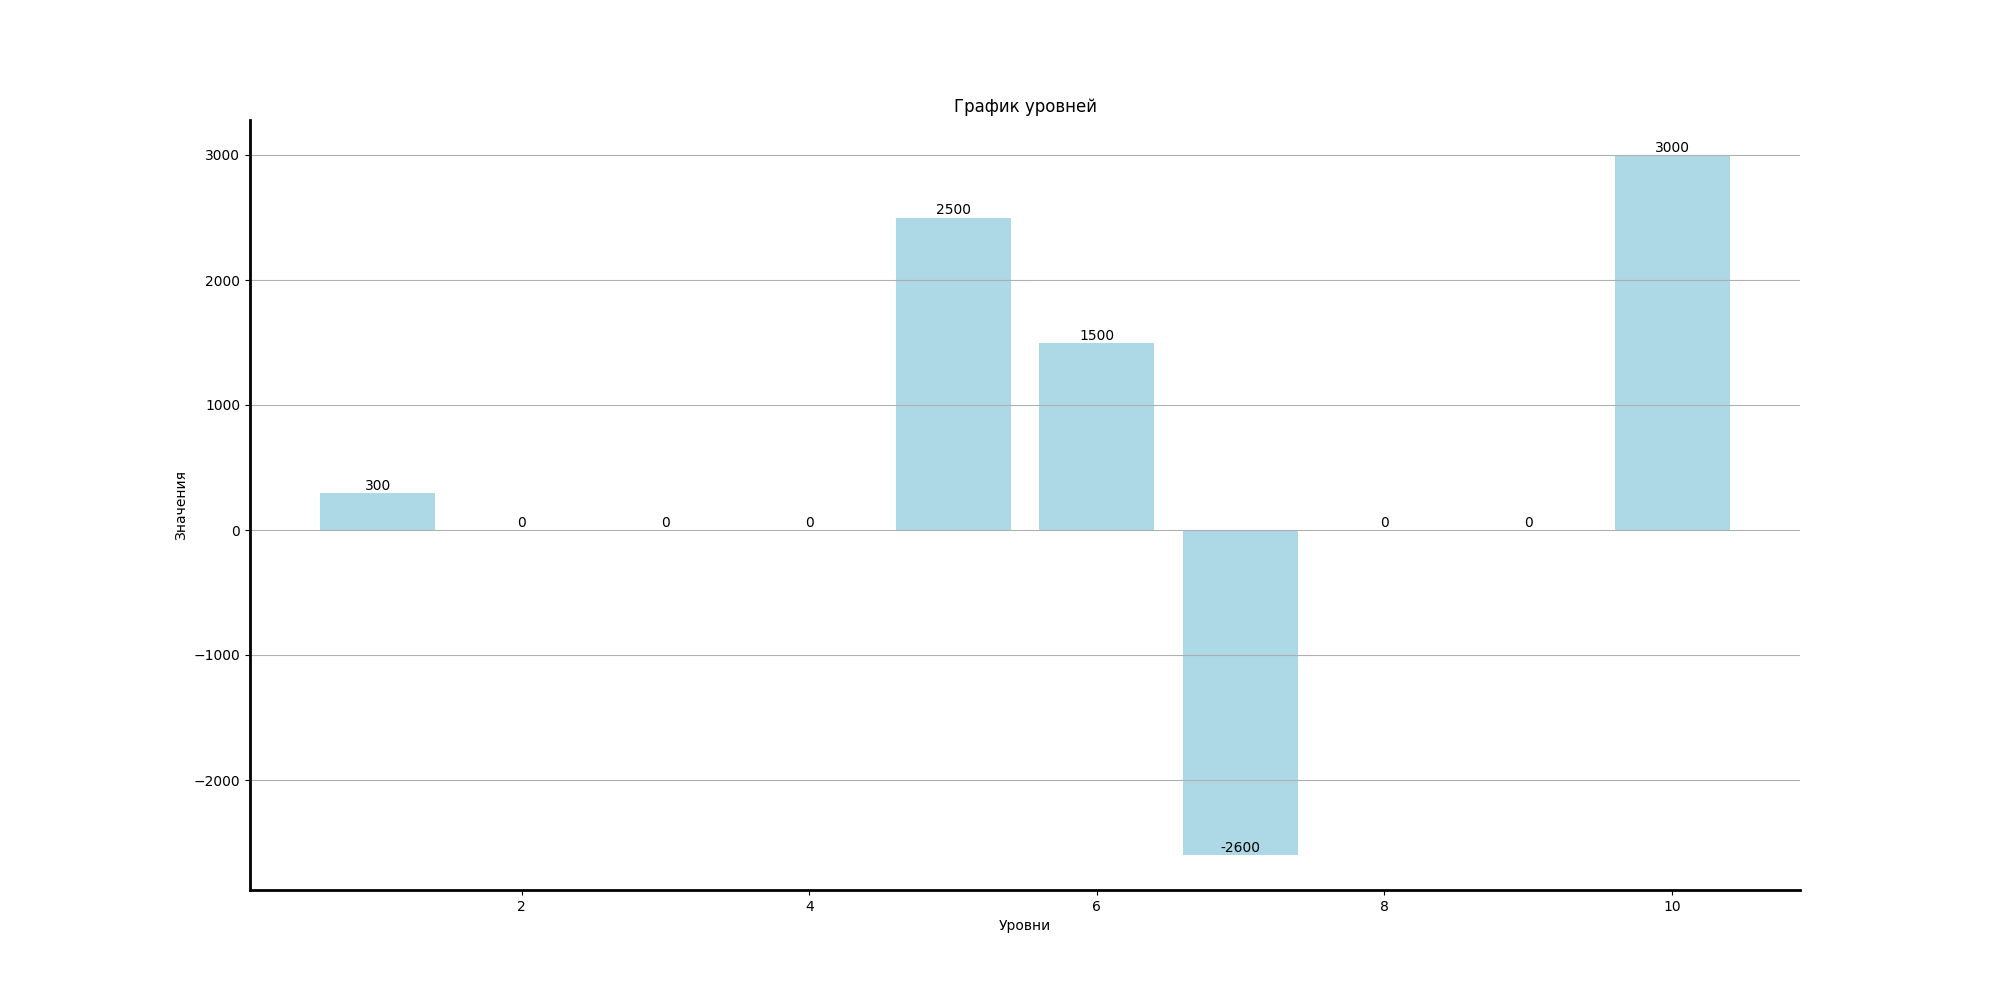
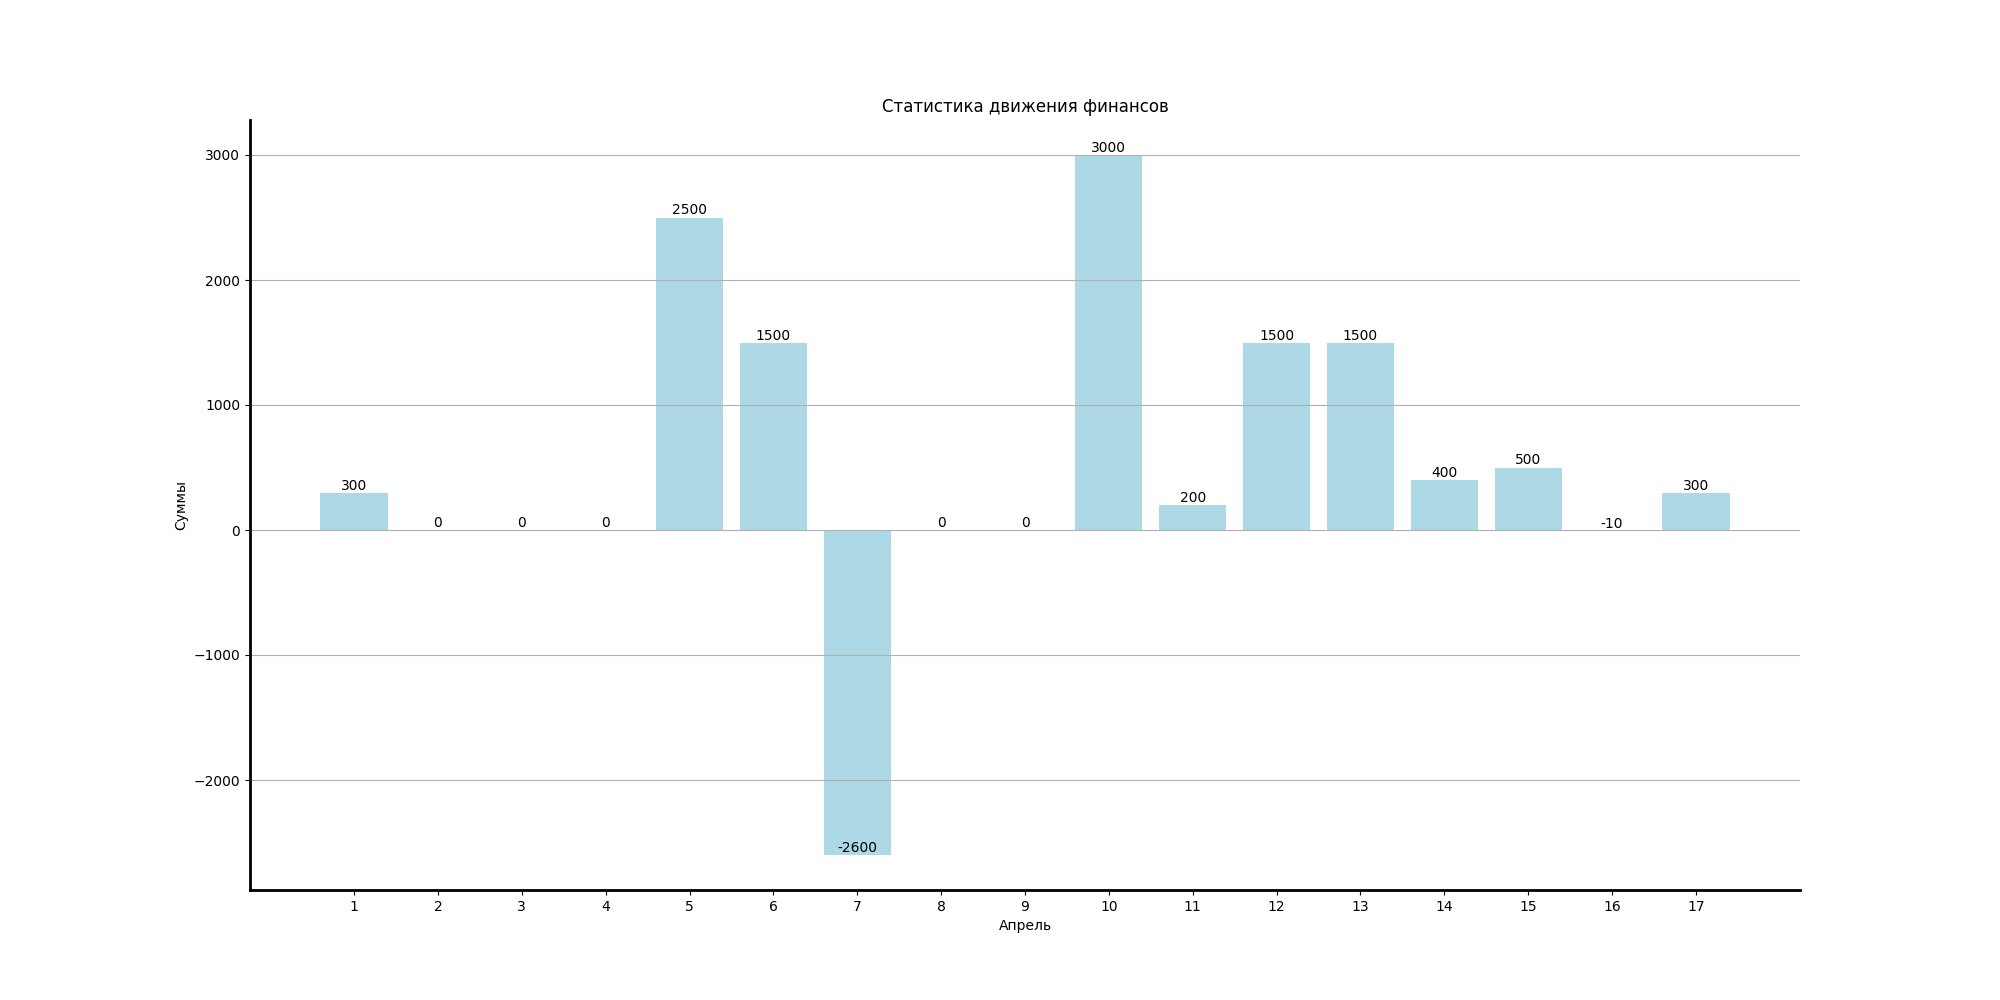
24-april-1

diff --git a/app/bot.py b/app/bot.py
@@ -7,12 +7,12 @@ from functions import is_int_or_float, day_utcnow
 from exchange import get_exchange
 from category import get_category
 from backupdb import backup_db
+from graph import build_graph
 from keys import telegram, is_admin
 import sys
 import os
 import csv
 import asyncio
-import matplotlib.pyplot as plt # Графики
 from io import StringIO, BytesIO
 from pathlib import Path
 from aiogram import Bot, Dispatcher, types, F, Router, html
@@ -1177,87 +1177,22 @@ async def menu_stat(message: types.Message):
 
 
 
-
 # STAT --- month
 @dp.callback_query(lambda c: c.data == 'stat_month')
 async def process_stat_month(callback_query: types.CallbackQuery):
-
-
-    # График кривой 
-    # # Пример данных для графика
-    # x = [1, 2, 3, 4, 5, 6, 7, 8 , 9, 10]
-    # y = [300, 0, 0, 0, 2500, 1500, -2600, 0, 0, 3000]
-
-    # # plt.figure()
-    # plt.figure(num='MyFigure', figsize=(20, 10), dpi=100, facecolor='w', edgecolor='k', frameon=True)
-    # plt.plot(x, y)
-    # plt.title('График дохода')
-    # plt.xlabel('Число месяца') # X
-    # plt.ylabel('Доход в руб.') # Y
-    # plt.grid(True)
-    # plt.savefig('./graph/graph.png')  # Сохранение графика в файл
-    # plt.close()  # Закрытие объекта figure, чтобы освободить память
-
-
-    # График горизонтальными колонами
-    # plt.figure()
-    # plt.barh(x, y, color='green')  # Создание горизонтальной столбчатой диаграммы
-    # plt.title('График уровней')
-    # plt.xlabel('Значения')
-    # plt.ylabel('Уровни')
-    # plt.grid(axis='x')  # Включение сетки по оси X
-    # plt.savefig('levels_horizontal.png')
-    # plt.close()
+    await bot.send_chat_action(callback_query.from_user.id, action='typing')
+    await callback_query.answer() # Подтверждение получения
 
     # График вертикальными колонами
-    x = [1, 2, 3, 4, 5, 6, 7, 8 , 9, 10]
-    y = [300, 0, 0, 0, 2500, 1500, -2600, 0, 0, 3000]
-
-    fig, ax = plt.subplots(figsize=(20, 10), dpi=100) # Создание объектов фигуры и осей
-    bars = ax.bar(x, y, color='lightblue')  # Создание столбчатой диаграммы
-
-    # Выделение осей
-    ax.spines['bottom'].set_color('black')
-    ax.spines['bottom'].set_linewidth(2)
-    ax.spines['left'].set_color('black')
-    ax.spines['left'].set_linewidth(2)
-
-    # Удаление верхней и правой границы
-    ax.spines['top'].set_visible(False)
-    ax.spines['right'].set_visible(False)
+    x = [1, 2, 3, 4, 5, 6, 7, 8 , 9, 10, 11, 12, 13, 14, 15, 16, 17]
+    y = [300, 0, 0, 0, 2500, 1500, -2600, 0, 0, 3000, 200, 1500, 1500, 400, 500, -10, 300]
 
 
-    # Добавление надписей на столбцах
-    for bar in bars:
-        height = bar.get_height()
-        ax.text(
-            bar.get_x() + bar.get_width() / 2,  # X позиция надписи
-            height,  # Y позиция надписи
-            f'{height}',  # Текст надписи
-            ha='center',  # Горизонтальное выравнивание
-            va='bottom'  # Вертикальное выравнивание
-        )
-    plt.title('График уровней')
-    plt.xlabel('Уровни')
-    plt.ylabel('Значения')
-    plt.grid(axis='y')  # Включение сетки по оси Y
-    plt.savefig('./graph/graph.png')
-    plt.close()
+    confirm = await build_graph(x,y)
 
 
 
-
-    # plt.figure(num='MyFigure', figsize=(20, 10), dpi=100, facecolor='w', edgecolor='k', frameon=True)
-    # plt.bar(x, y, color='green')  # Создание столбчатой диаграммы
-    # plt.title('Финансовый график')
-    # plt.xlabel('Числа месяца')
-    # plt.ylabel('Доходы и траты')
-    # plt.grid(axis='y')  # Включение сетки по оси Y
-    # plt.savefig('./graph/graph.png')
-    # plt.close()
-
-
-    if os.path.exists("./graph/graph.png") and os.path.getsize("./graph/graph.png") > 0:
+    if confirm is True and os.path.exists("./graph/graph.png") and os.path.getsize("./graph/graph.png") > 0:
         await bot.send_document(chat_id=callback_query.from_user.id, document=types.input_file.FSInputFile("./graph/graph.png"))
 
     await bot.send_message(callback_query.from_user.id, "Статистика за месяц")

diff --git a/app/graph.py b/app/graph.py
@@ -1,0 +1,90 @@
+import matplotlib.pyplot as plt # Графики
+import asyncio
+
+
+async def build_graph(x, y):
+    fig, ax = plt.subplots(figsize=(20, 10), dpi=100) # Создание объектов фигуры и осей
+    bars = ax.bar(x, y, color='lightblue')  # Создание столбчатой диаграммы
+
+    # Выделение осей
+    ax.spines['bottom'].set_color('black')
+    ax.spines['bottom'].set_linewidth(2)
+    ax.spines['left'].set_color('black')
+    ax.spines['left'].set_linewidth(2)
+
+    # Удаление верхней и правой границы
+    ax.spines['top'].set_visible(False)
+    ax.spines['right'].set_visible(False)
+
+
+    # Добавление надписей на столбцах
+    for bar in bars:
+        height = bar.get_height()
+        ax.text(
+            bar.get_x() + bar.get_width() / 2,  # X позиция надписи
+            height,  # Y позиция надписи
+            f'{height}',  # Текст надписи
+            ha='center',  # Горизонтальное выравнивание
+            va='bottom'  # Вертикальное выравнивание
+        )
+    plt.xticks(x)
+    plt.title('Статистика движения финансов')
+    plt.xlabel('Апрель')
+    plt.ylabel('Суммы')
+    plt.grid(axis='y')  # Включение сетки по оси Y
+    plt.savefig('./graph/graph.png')
+    plt.close()
+    return True
+
+
+
+
+if __name__ == "__main__":
+    asyncio.run(build_graph())
+
+
+
+
+
+
+
+
+
+
+
+
+
+
+
+
+
+
+
+
+
+
+    # График кривой 
+    # # Пример данных для графика
+    # x = [1, 2, 3, 4, 5, 6, 7, 8 , 9, 10]
+    # y = [300, 0, 0, 0, 2500, 1500, -2600, 0, 0, 3000]
+
+    # # plt.figure()
+    # plt.figure(num='MyFigure', figsize=(20, 10), dpi=100, facecolor='w', edgecolor='k', frameon=True)
+    # plt.plot(x, y)
+    # plt.title('График дохода')
+    # plt.xlabel('Число месяца') # X
+    # plt.ylabel('Доход в руб.') # Y
+    # plt.grid(True)
+    # plt.savefig('./graph/graph.png')  # Сохранение графика в файл
+    # plt.close()  # Закрытие объекта figure, чтобы освободить память
+
+
+    # График горизонтальными колонами
+    # plt.figure(num='MyFigure', figsize=(20, 10), dpi=100, facecolor='w', edgecolor='k', frameon=True)
+    # plt.barh(x, y, color='green')  # Создание горизонтальной столбчатой диаграммы
+    # plt.title('График уровней')
+    # plt.xlabel('Значения')
+    # plt.ylabel('Уровни')
+    # plt.grid(axis='x')  # Включение сетки по оси X
+    # plt.savefig('levels_horizontal.png')
+    # plt.close()
